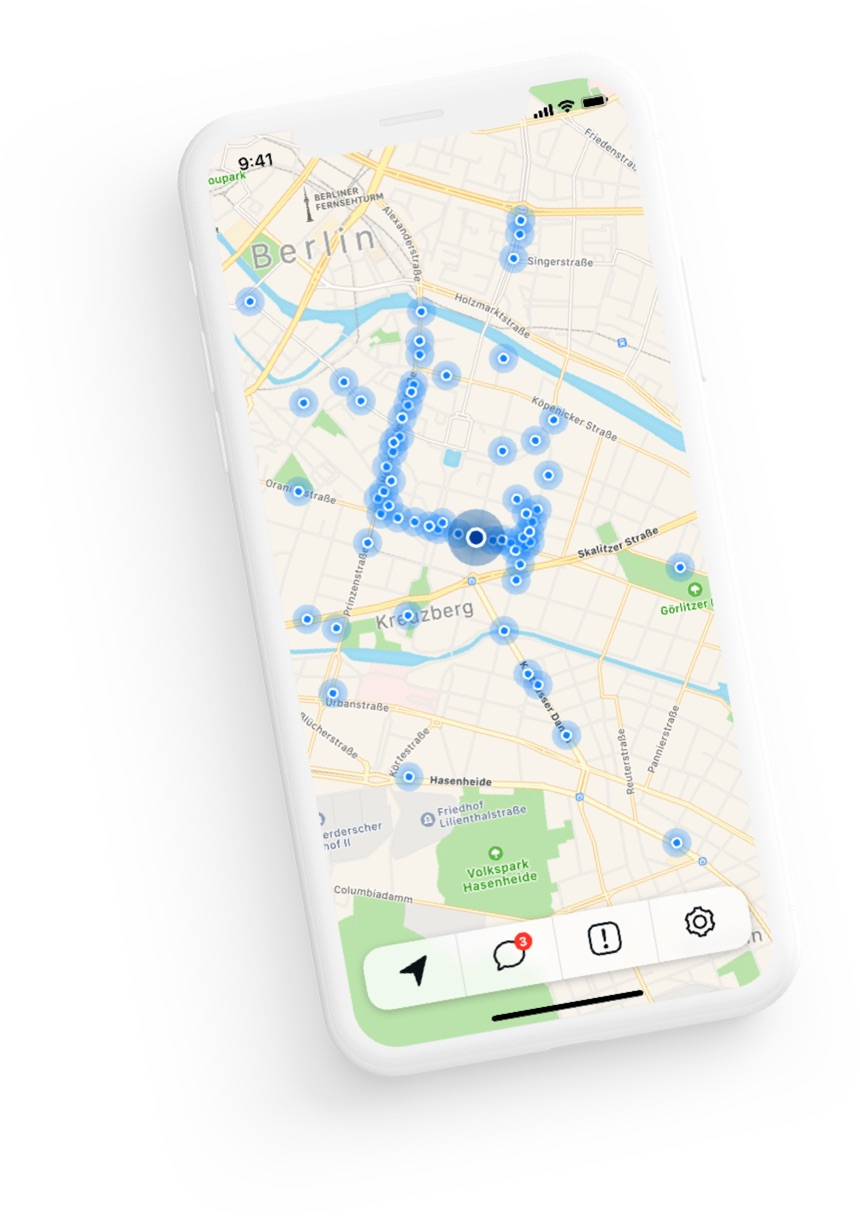
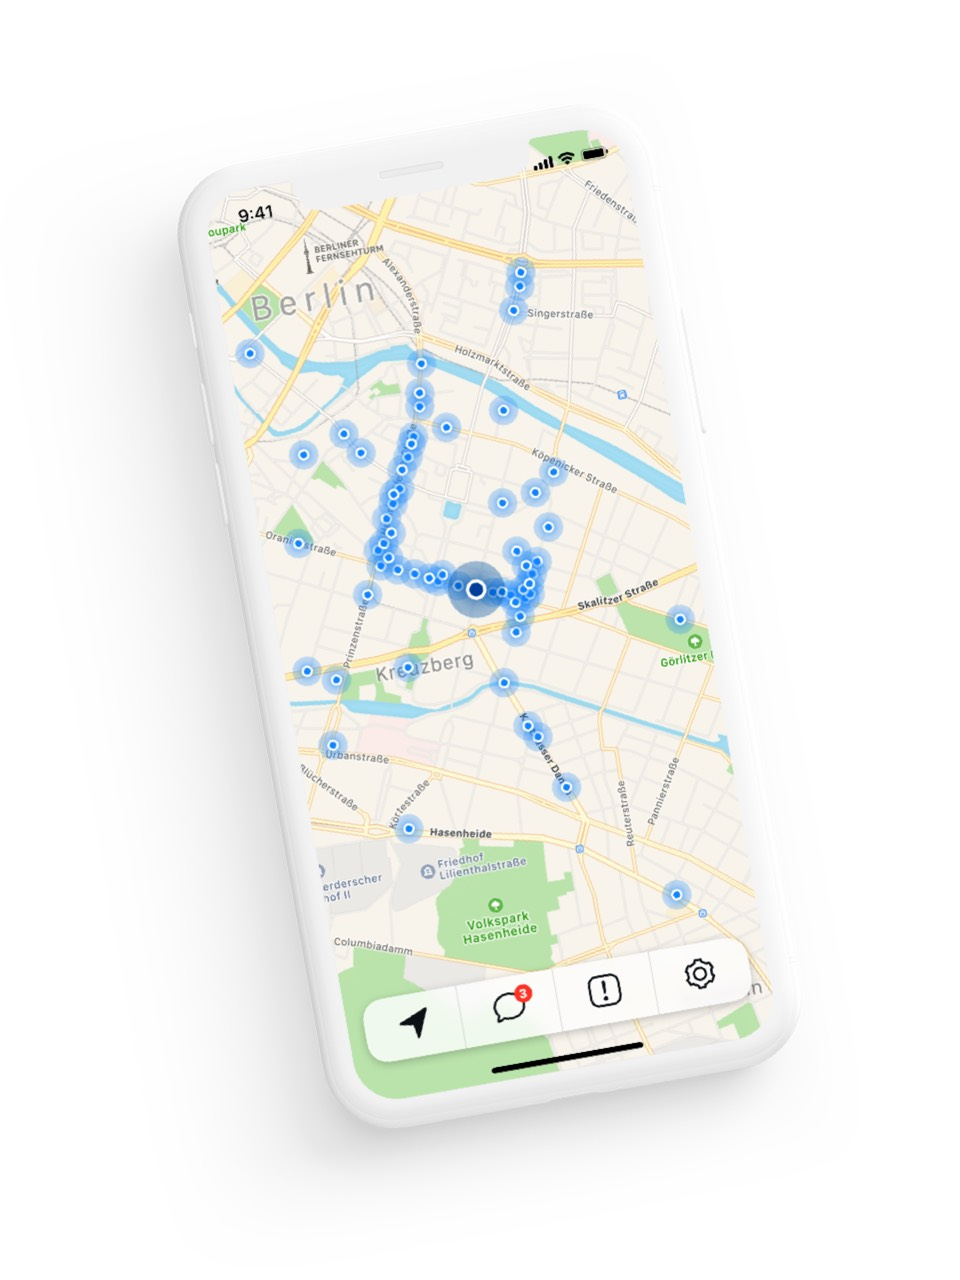
make frontpage text static

Changed region(s): [[0.2116, 0.0625, 0.907, 0.875]]

diff --git a/src/css/_layout.scss b/src/css/_layout.scss
@@ -184,8 +184,8 @@ body {
   margin: 0;
 
   @media only screen and (max-width: $breakpoint) {
-    width: 80%;
-    margin: -80px 10% 80px;
+    width: 75%;
+    margin: -64px 12.5% 0;
   }
 
   img {
@@ -202,15 +202,8 @@ body {
   box-sizing: border-box;
 
   @media only screen and (max-width: $breakpoint) {
-    position: fixed;
-    left: 0;
-    bottom: 0;
-    width: 100%;
-    padding: 24px 40px;
-    background: linear-gradient(rgba(255,255,255,.7),#FFFFFF);
-    -webkit-backdrop-filter: blur(10px);
-    backdrop-filter: blur(10px);
-    box-shadow: 0 0 4px rgba(0,0,0,0.1);
+    width: auto;
+    padding: 0 40px;
     text-align: center;
   }
 
@@ -239,7 +232,7 @@ body {
     z-index: 3;
 
     @media only screen and (max-width: $breakpoint) {
-      margin: 0 -40px;
+
     }
 
     &.download-dektop {
@@ -253,6 +246,7 @@ body {
     .button {
       display: inline-block;
       padding: 10px 24px;
+      margin-bottom: 8px;
       width: auto;
       font-size: 14px;
       line-height: 28px;

diff --git a/src/index.php b/src/index.php
@@ -10,7 +10,7 @@
 	<div class="inner content">
 		<div class="front">
 			<figure class="front-image">
-				<img src="/assets/images/app.jpg" width="430" height="608" alt="Critical Maps on iPhoneX" />
+				<img src="/assets/images/app.jpg" width="480" height="640" alt="Critical Maps on iPhoneX" />
 			</figure>
 			<div class="front-text">
 				<h1 class="front-title">Critical Maps</h1>
